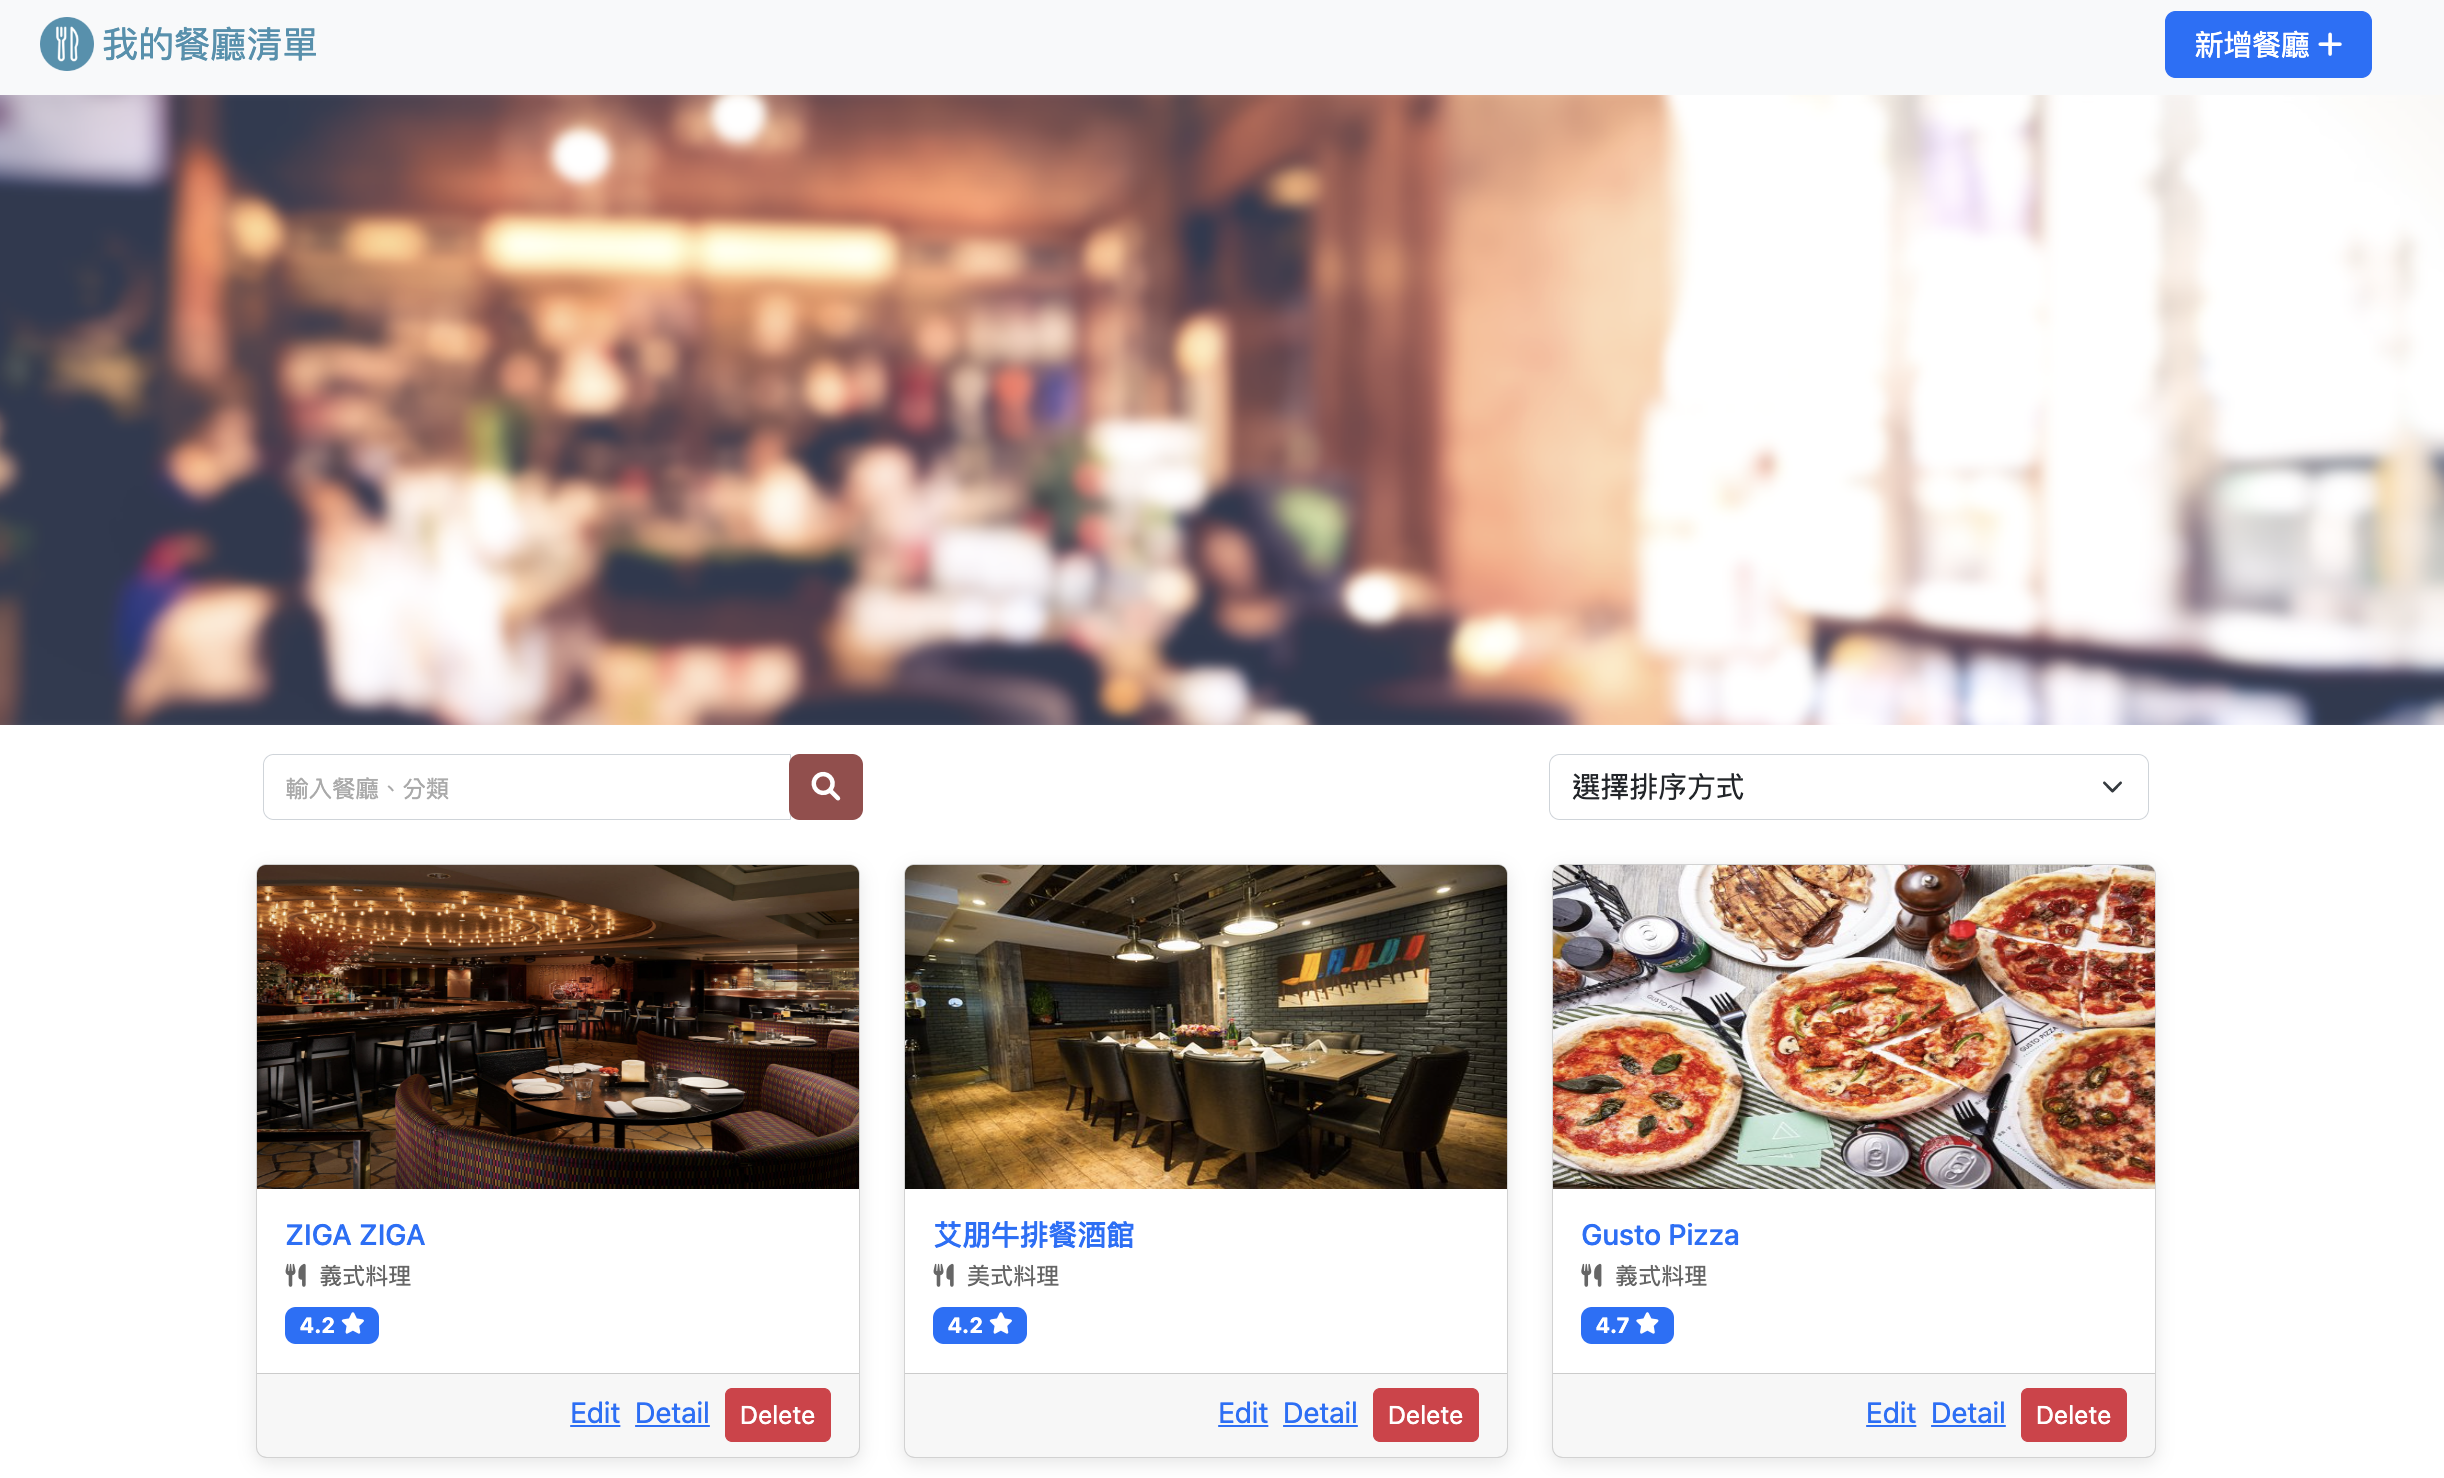
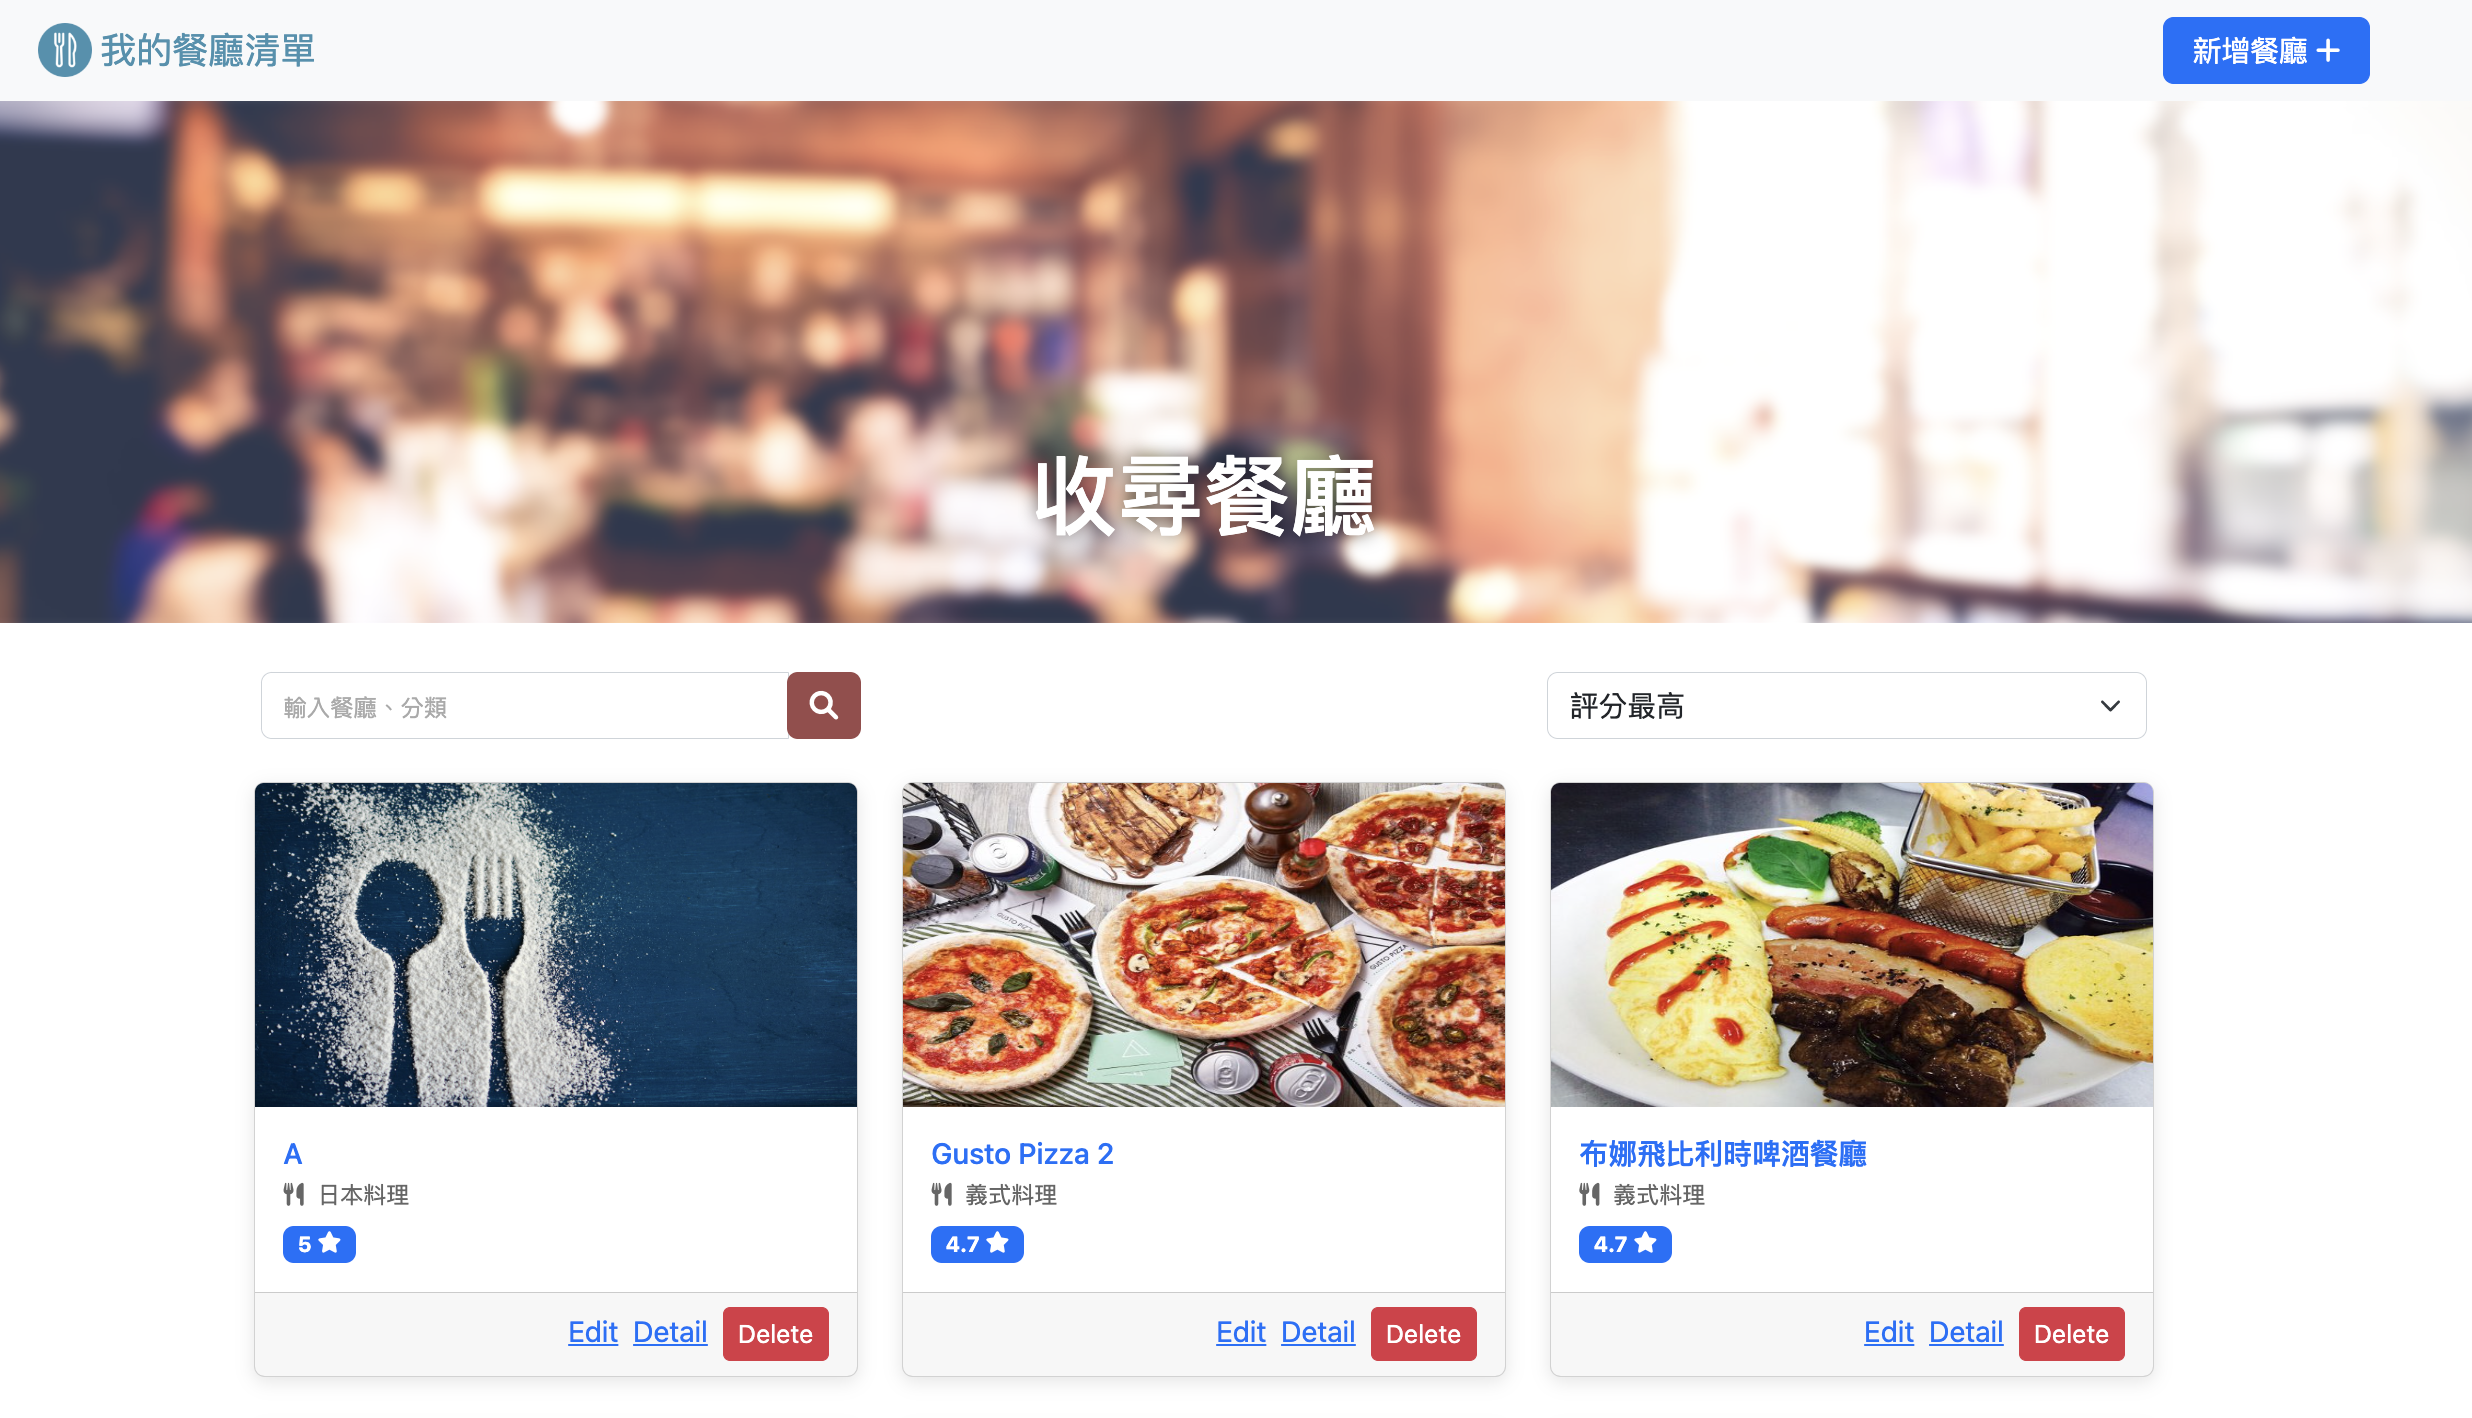
feat: update index with page title

diff --git a/public/styles/style.css b/public/styles/style.css
@@ -14,8 +14,6 @@
   font-size: 13px !important;
 }
 
-
-
 header {
   overflow: hidden;
 }
@@ -32,7 +30,7 @@ header {
   position: relative;
   z-index: -1;
   margin: -5px;
-  height: 360px;
+  height: 300px;
   background: #dddddd center center url('https://assets-lighthouse.s3.amazonaws.com/uploads/image/file/5720/restaurants-list-cover.jpg');
   background-size: cover;
   filter: blur(3px);
@@ -94,6 +92,10 @@ header {
   text-align: center;
   font-size: 3rem;
   text-shadow: 0 0 10px rgba(0, 0, 0, 0.5);
+}
+
+.my-container {
+  margin-top: -30px !important;
 }
 
 @media screen and (max-width: 992px) {
